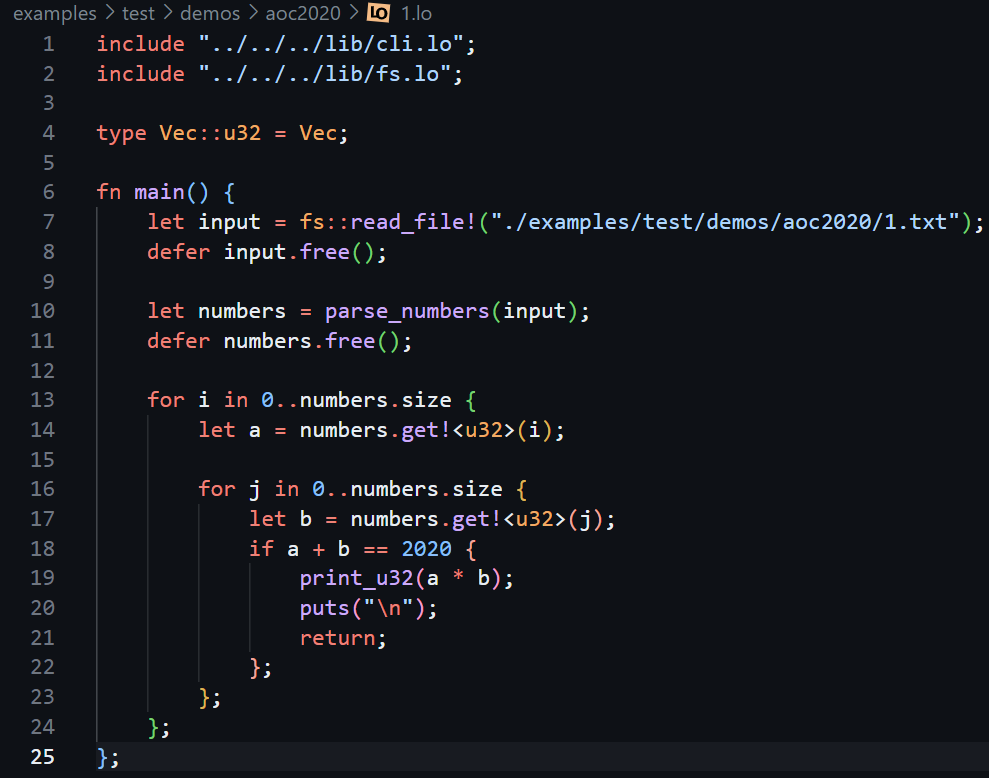
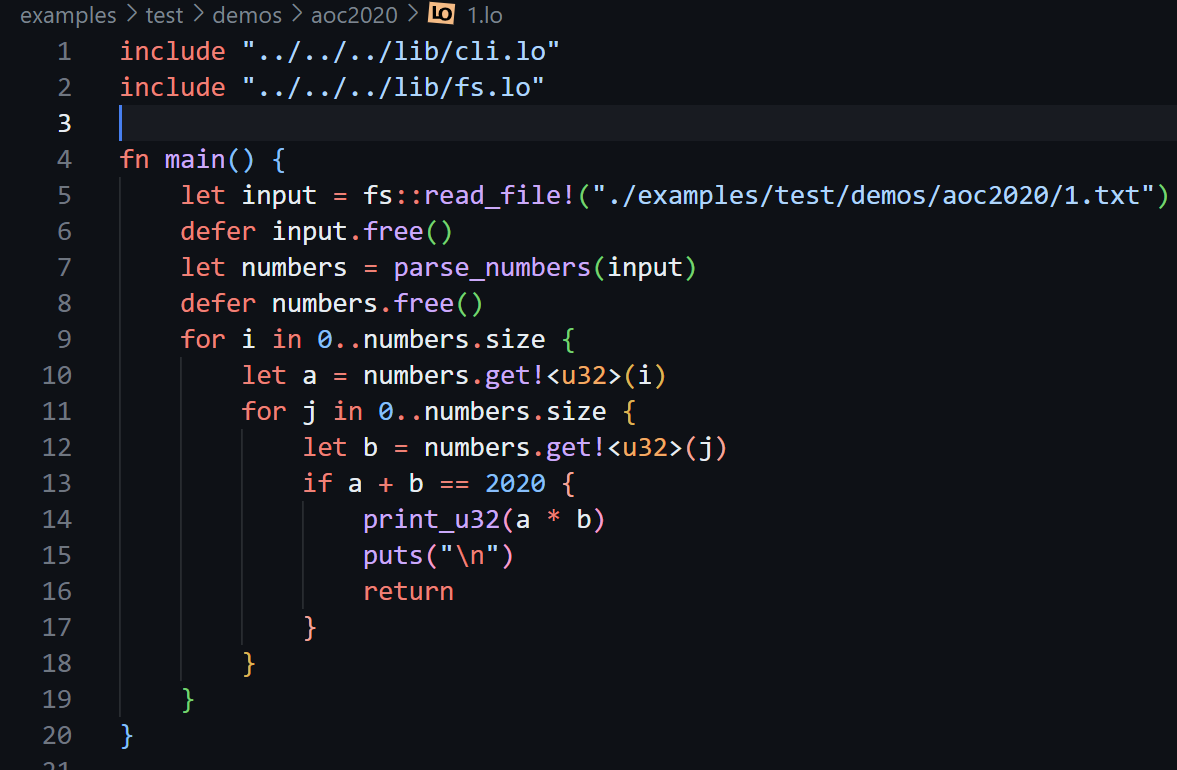
docs: remove semicolons from readme screenshots

diff --git a/README.md b/README.md
@@ -38,7 +38,7 @@ Here are some of them with syntax highlighting from the [LO VS Code extension](#
 
 ![Hello World sample](./docs/assets/hello-world.png)
 
-- Advent of Code 2020 Day 1 [(source)](examples/test/demos/hello-world.lo):
+- Advent of Code 2020 Day 1 [(source)](examples/test/demos/aoc2020/1.lo):
 
 ![AOC 2020 sample](./docs/assets/aoc-2020-day1.png)
 
